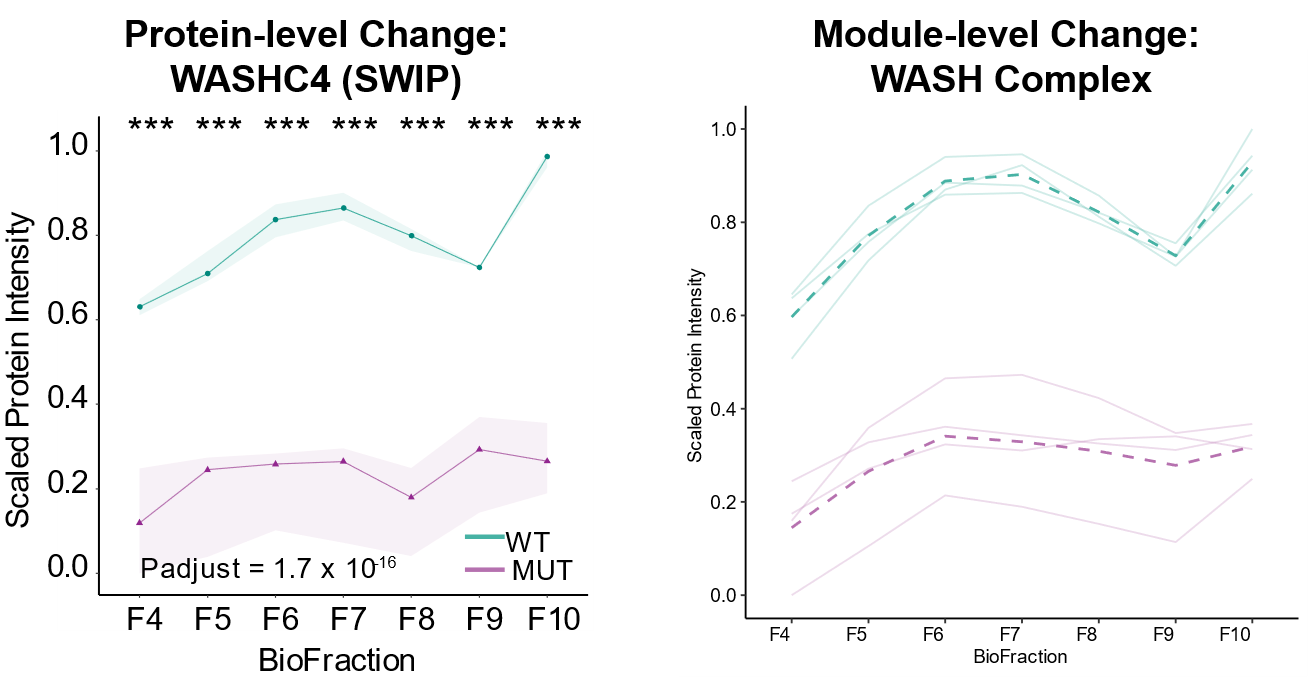
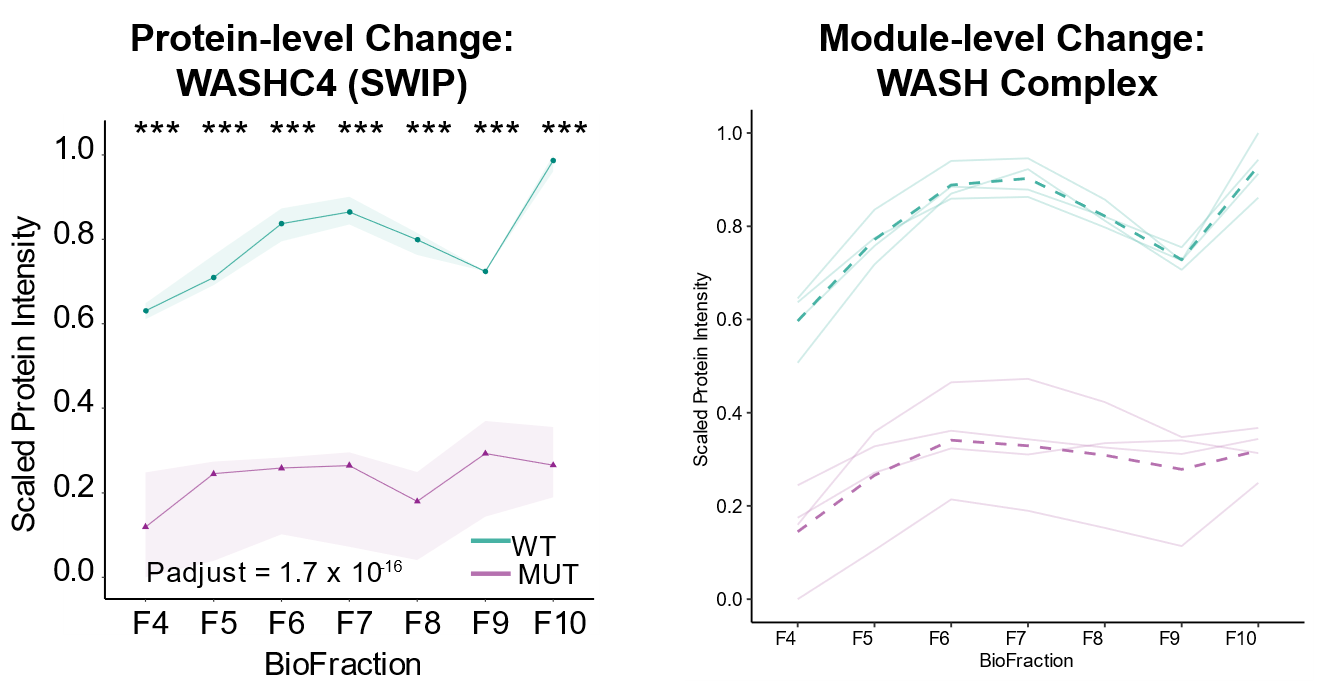
do some work

diff --git a/SwipProteomics/index.html b/SwipProteomics/index.html
@@ -161,6 +161,7 @@
 								<section>
 										<h3>Assembling Protein Covariation Networks</h3>
 										<img class="r-stretch" src="./lib/images/cor-mat-ppi.png" alt="prot-covar">
+										<p>The abundance of proteins that function and interact together tend to be highly correlated.</p>
 								</section>
 
 								<!-- background: proximity proteomics -->
@@ -192,8 +193,8 @@
 
 								<!-- background: overview -->
 								<section>
-										<h4>Resolving Subcellular Space with Proximity and Spatial Proteomics</h4>
-										<img class="r-stretch" src="./lib/images/protms.png" alt="protms">
+										<h4>Network-level Analysis Facilitates Biological Insight</h4>
+										<img class="r-stretch" src="./lib/images/protms-netw.png" alt="protms">
 										<p>Proximity Proteomics (A) and Spatial Proteomics (B) define protein subcellular localization.</p>
 
 										<aside data-markdown class="notes" >
@@ -208,13 +209,30 @@
 										<div class="container">
 												<div class="col">
 														<img class="r-stretch" src="./lib/images/svm.png" alt="svm">
-														<p><b>Supervised:</b> Support Vector Machine</p>
+														<p><b>Supervised:</b> <em>e.g.</em> Support Vector Machine</p>
 												</div>
 												<div class="col">
 														<img class="r-stretch" src="./lib/images/unsupervised.png" alt="unsupervised">
 														<p><b>Unsupervised:</b> Quality Optimization</p>
 												</div>
 										</div>
+								</section>
+
+								<!-- intro: leiden alg table -->
+								<section data-markdown>
+										 <textarea data-template>
+												#### The Leiden Algorithm Functions to Maximize a Quality Statistic
+												| Quality | Multi-Resolution | Weighted | Signed | Reference |
+												|:--------|:----------------:|:--------:|:------:|:----------|
+												| Modularity | False | True | False | Newman _et al._, 2004 |
+												| RBER | True | True | False | Reichardt _et al._, 2006 |
+												| RBConfiguration | True | True | False | Reichardt _et al._, 2006 |
+												| CPM | True | True | True | Traag _et al._, 2011 |
+												| Significance | False | False | False | Traag _et al._, 2013 |
+												| Surprise | False | True | False | Traag _et al._, 2015 |
+
+												Leiden Algorithm: [Traag _et al._, 2019](https://www.nature.com/articles/s41598-019-41695-z)
+										 </textarea>
 								</section>
 
 								<!-- intro: WASHC4 -->
@@ -429,6 +447,22 @@
 
 								</section>
 
+								<!-- variance partition -->
+								<section>
+										<h3>Partitioning the Variance</h3>
+										<img class="r-stretch" src="./lib/images/pca-varpart.png" alt="varpart">
+										<br><br>
+										<div class='foot-right'>
+												<a href="https://bit.ly/35OtYiG" target="_blank">Hoffman <em>et al.</em> 2016, 2019</a>
+										</div>
+								</section>
+
+								<!-- two levels of analysis -->
+								<section>
+										<h4>Module-level Analysis Powers Biological Insight</h4>
+										<img class="r-stretch" src="lib/images/washc4-prot-module.png">
+								</section>
+
 								<!-- results: Endosomal Module -->
 								<section>
 										<h4>Significant Disruption of an Endosomal Module Containing SWIP</h4>
@@ -478,31 +512,6 @@
 
 								</section>
 
-								<!-- results: ER Stress Module -->
-								<section>
-										<h3>Disruption of an ER Stress Associated Module</h3>
-										<img class="r-stretch" src="./lib/images/m6.png" alt="m6">
-										<p>Increased ER stress proteins: e.g. HSPA5, PDIA3, PDIA4, PDIA6, and DNAJC3</p>
-
-										<!-- notes -->
-										<aside data-markdown class="notes" >
-												transition:
-										</aside>
-
-								</section>
-
-								<!-- results: Neurodegeneration -->
-								<section>
-										<h4>Evidence of Neurodegeneration in SWIP<sup>P1019R</sup> Adult Motor Cortex</h4>
-										<img class="r-stretch" src="./lib/images/caspase.png" alt="caspase">
-
-										<!-- notes -->
-										<aside data-markdown class="notes" >
-												transition:
-										</aside>
-
-								</section>
-
 								<!-- results: Synapse -->
 								<section>
 										<h4>Decreased abundance of a Synapse Module</h4>
@@ -517,7 +526,7 @@
 
 								<!-- results: aged-motor -->
 								<section>
-										<h3>Motor Function Decline</h3>
+										<h4>Motor Function Decline with Age</h4>
 										<div class="container">
 												<div class="col">
 														<figure>
@@ -603,6 +612,32 @@
 										<h2 class="r-fit-text">Extra Slides</h2>
 								</section>
 
+								<!-- results: ER Stress Module -->
+								<section>
+										<h3>Disruption of an ER Stress Associated Module</h3>
+										<img class="r-stretch" src="./lib/images/m6.png" alt="m6">
+										<p>Increased ER stress proteins: e.g. HSPA5, PDIA3, PDIA4, PDIA6, and DNAJC3</p>
+
+										<!-- notes -->
+										<aside data-markdown class="notes" >
+												transition:
+										</aside>
+
+								</section>
+
+								<!-- results: Neurodegeneration -->
+								<section>
+										<h4>Evidence of Neurodegeneration in SWIP<sup>P1019R</sup> Adult Motor Cortex</h4>
+										<img class="r-stretch" src="./lib/images/caspase.png" alt="caspase">
+
+										<!-- notes -->
+										<aside data-markdown class="notes" >
+												transition:
+										</aside>
+
+								</section>
+
+
 								<!-- intro: konigsberg problem -->
 								<section>
 										<h2>Konigsberg Problem</h2>
@@ -616,20 +651,7 @@
 										<div class="fig-container r-stretch" data-file="lib/graphs/konigsberg/index.html"></div>
 								</section>
 
-								<!-- intro: leiden alg table -->
-								<section data-markdown>
-												#### The Leiden Algorithm Functions to Maximize a Quality Statistic
-												| Quality | Multi-Resolution | Weighted | Signed | Reference |
-												|:--------|:----------------:|:--------:|:------:|:----------|
-												| Modularity | False | True | False | Newman _et al._, 2004 |
-												| RBER | True | True | False | Reichardt _et al._, 2006 |
-												| RBConfiguration | True | True | False | Reichardt _et al._, 2006 |
-												| CPM | True | True | True | Traag _et al._, 2011 |
-												| Significance | False | False | False | Traag _et al._, 2013 |
-												| Surprise | False | True | False | Traag _et al._, 2015 |
-								</section>
-
-								<!-- leidenalg: cpm -->
+								<!-- leidenalg -->
 								<section>
 										<h3>The Leiden Algorithm</h3>
 										<img class="r-stretch" src="./lib/images/leiden.png" alt="leiden">
@@ -666,16 +688,6 @@
 										<br><br>
 										<div class='foot-right'>
 												<a href="https://github.com/soderling-lab/neten" target="_blank">soderling-lab/neten</a>
-										</div>
-								</section>
-
-								<!-- variance partition -->
-								<section>
-										<h3>Partitioning the Variance</h3>
-										<img src="./lib/images/varpart.png" alt="varpart" style="width:70%">
-										<br><br>
-										<div class='foot-right'>
-												<a href="https://bit.ly/35OtYiG" target="_blank">Hoffman <em>et al.</em> 2016, 2019</a>
 										</div>
 								</section>
 
@@ -739,13 +751,22 @@
 								<!-- Rogdi-Rav2 alignment -->
 								<section>
 										<h3>Rogdi, Rav2, and the RAVE Complex</h3>
-										<img class="r-stretch" src="./lib/images/rogdi-rav2.png" alt="rogdi-structure">
-										<p>Structural alignment of Rogdi and Rav2.</p>
+										<div class="container">
+												<div class="col">
+														<img src="./lib/images/rogdi-rav2.png" alt="rogdi-structure" style="width:80%">
+												</div>
+												<div class="col">
+														<img src="./lib/images/rogdi-prot-module.png" alt="rogdi-module" style="width:100%">
+												</div>
+										</div>
 										<br>
 										<div class='foot-right'>
 												Rogdi crystal structure: <a href="https://go.nature.com/3d6jpf1" target="_blank">Lee <em>et al.</em>, 2017</a>
 										</div>
 								</section>
+
+								<!--
+								-->
 
 										</div>
 						</div>
